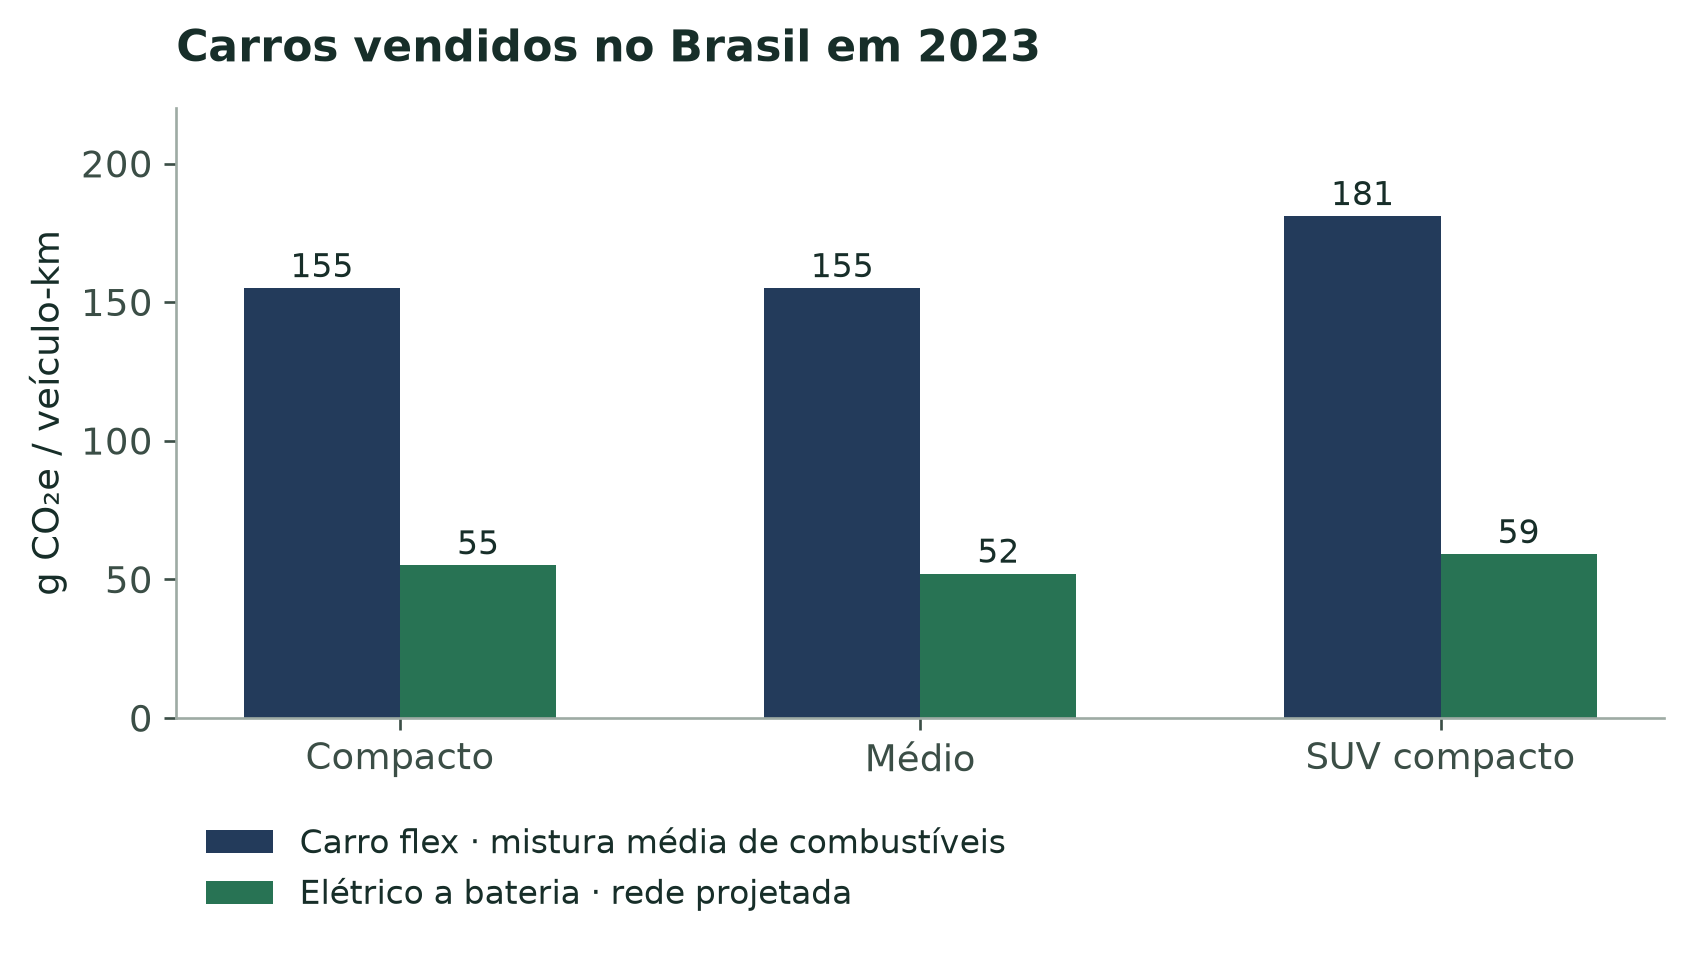
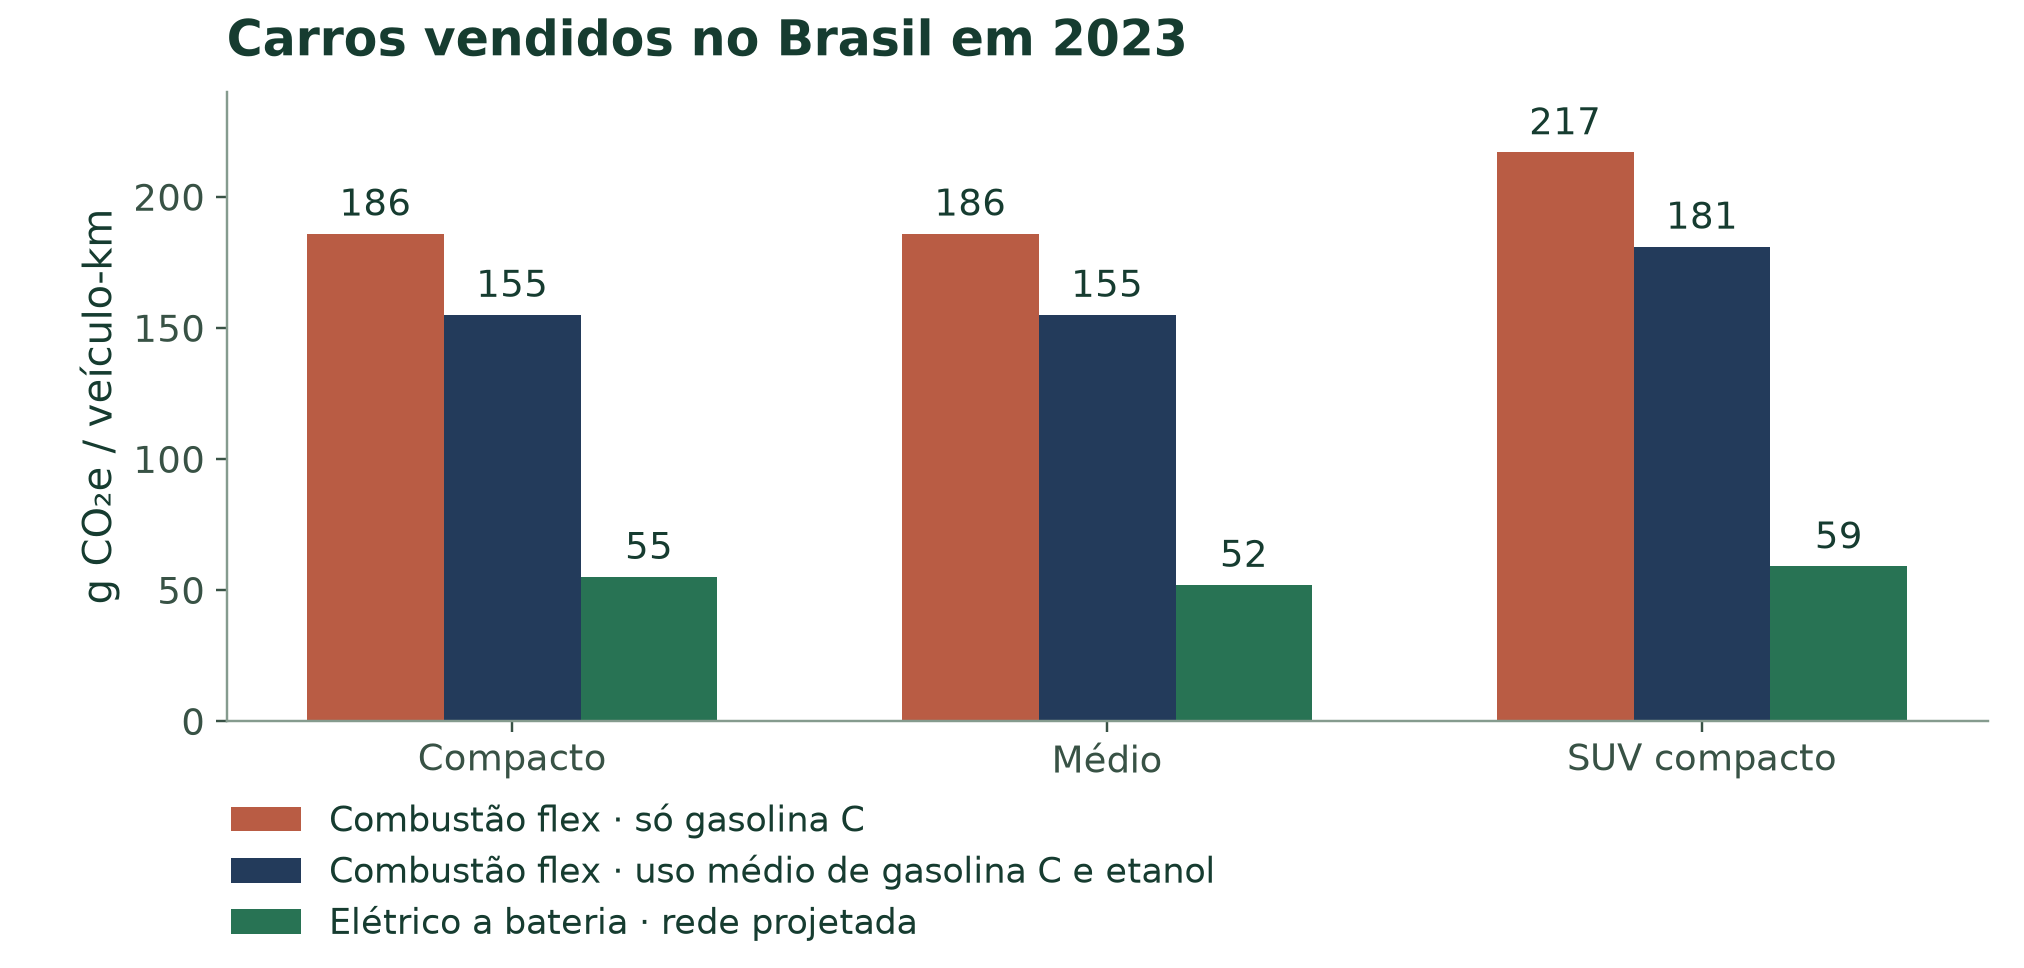
Compare gasoline C flex cars with average fuel mix and EVs on slide 8

Changed region(s): [[0.0, 0.0912, 0.9829, 0.9727], [0.0921, 0.0, 0.6143, 0.0608], [0.0307, 0.152, 0.1229, 0.2432]]

diff --git a/index.html b/index.html
@@ -75,13 +75,15 @@ R01 — Material fornecido da disciplina Sustainable Future, Aula 10, p. 15.</as
 
 FONTES
 R01 — Material fornecido da disciplina Sustainable Future · PDFs indexados no arquivo da aula. As páginas citadas são páginas do PDF, sem equivaler necessariamente à numeração interna dos slides. </aside></section>
-<section class="visual-slide " data-title="Carros elétricos no ciclo de vida" aria-label="8. Carros elétricos no ciclo de vida"><h1>Carros elétricos no ciclo de vida</h1><img class="chart-visual brazil-chart" src="assets/pt/brazil_ev.png" alt="ICCT Brasil, carros vendidos em 2023: flex e elétrico a bateria. Compacto 155 e 55; médio 155 e 52; SUV compacto 181 e 59 g CO₂e por veículo-km"><p class="source-line">ICCT Brasil, 2023 · modelo de vida útil: 22 anos e 288.000 km</p><aside class="notes">20–23 min. Compare veículos da mesma categoria. ICCT Brasil 2023: compacto flex com mistura média de combustíveis 155 frente a elétrico 55; médio 155 frente a 52; SUV compacto 181 frente a 59 g CO₂e/veículo-km. Reduções modeladas de cerca de 65–67%, incluindo fabricação, energia, manutenção e reciclagem com hipóteses do estudo, vida de 22 anos e 288.000 km. As misturas de combustíveis e eletricidade são projetadas para 2023–2044; não são medições de todos os carros atuais. Porte maior pode elevar demanda de materiais e energia.
+<section class="visual-slide " data-title="Carros elétricos no ciclo de vida" aria-label="8. Carros elétricos no ciclo de vida"><h1>Carros elétricos no ciclo de vida</h1><img class="chart-visual brazil-chart" src="assets/pt/brazil_ev.png?v=20261109-gasolina" alt="ICCT Brasil, carros de 2023. Flex só com gasolina C, flex com uso médio de gasolina e etanol, e elétrico. Compacto: 186, 155 e 55. Médio: 186, 155 e 52. SUV compacto: 217, 181 e 59 gramas de CO₂e por veículo-quilômetro."><p class="source-line">ICCT Brasil, 2023 · modelo de vida útil: 22 anos e 288.000 km</p><aside class="notes">20–23 min. Compare veículos da mesma categoria. O ICCT Brasil 2023 estimou, em g CO₂e por veículo-km, os seguintes valores para flex só a gasolina C, flex com uso médio de gasolina C e etanol hidratado, e elétrico a bateria, nessa ordem. Compacto 186, 155 e 55. Médio 186, 155 e 52. SUV compacto 217, 181 e 59. Os dois cenários de combustão usam o mesmo veículo flex, com abastecimentos diferentes. Gasolina C é a gasolina comercial com etanol anidro na formulação.
 
-Referência alternativa separada: ICCT UE 2025 para médios, 235 g/km gasolina mais biocombustíveis, 63 elétrico com rede projetada, 52 com eletricidade renovável. Esses são cenários europeus, não fatores da enquete brasileira. Não dê distância universal de compensação da bateria nem afirme que o elétrico sempre vence qualquer ônibus ou bicicleta.
+As barras distribuem as emissões modeladas por 288.000 km em 22 anos. Entram a extração de matérias-primas, a fabricação, a manutenção, a produção e o uso de combustível ou eletricidade, e a reciclagem do chassi e do conjunto de propulsão. Para a bateria, entra a produção, com crédito zero para reciclagem ou segunda vida. Os cenários de combustíveis e eletricidade seguem as projeções do estudo para 2023–2044.
+
+Referência alternativa separada. ICCT UE 2025 estima, para carros médios, 235 g/km no cenário gasolina mais biocombustíveis, 63 no elétrico com a rede projetada e 52 no elétrico com eletricidade renovável.
 
 FONTES
-R10 — Mera e colaboradores ICCT 2023 carros no Brasil · Figuras 5–7, páginas impressas 15–17. Vida útil de 22 anos e 288.000 km; energia projetada para 2023–2044. https://theicct.org/wp-content/uploads/2023/10/Brazil-LDV-LCA-report-A4-v7.pdf
-R09 — ICCT 2025 ciclo de vida dos carros na União Europeia · Comparação de carros médios vendidos em 2025, com eletricidade ao longo de 2025–2044. https://theicct.org/wp-content/uploads/2025/07/ID-392-%E2%80%93-Life-cycle-GHG_report_final.pdf</aside></section>
+R10 — ICCT Brasil (2023), figuras 5–7, discussão dos veículos de 2023 e escopo da ACV. https://theicct.org/wp-content/uploads/2023/10/Brazil-LDV-LCA-report-A4-PORT-v4.pdf
+R09 — ICCT União Europeia (2025), avaliação de ciclo de vida. https://theicct.org/publication/electric-cars-life-cycle-analysis-emissions-europe-jul25/</aside></section>
 <section class="visual-slide " data-title="Quanto pesa a energia?" aria-label="9. Quanto pesa a energia?"><h1>Quanto pesa a energia?</h1><img class="photo half-photo" src="assets/pt/plane.webp" alt="Aeronave comercial"><div class="energy-numbers"><div><strong>43,2</strong><span>MJ/kg · Jet A</span></div><div><strong>0,9</strong><span>MJ/kg · bateria a 250 Wh/kg</span></div><p>Energia armazenada ≠ autonomia</p></div><aside class="notes">23–26 min. Converta com a turma: 250 Wh/kg × 3,6 kJ/Wh = 900 kJ/kg = 0,9 MJ/kg. Jet A tem poder calorífico inferior de 43,2 MJ/kg: razão armazenada de 48. A bateria é uma hipótese de conjunto a 250 Wh/kg, não um recorde de célula. Isso não significa 48 vezes a autonomia. Como sensibilidade hipotética, 35% de conversão útil para combustível e 90% para elétrico dão 15,12 contra 0,81 MJ/kg, razão 18,7; não representam uma aeronave específica. Reservas, refrigeração, aerodinâmica, massa do conjunto e queima de combustível entram no projeto. Aviões curtos e algumas rotas marítimas podem usar baterias; longo alcance impõe outras restrições.
 
 FONTES

diff --git a/CREDITS.md b/CREDITS.md
@@ -73,13 +73,15 @@ R01 — Material fornecido da disciplina Sustainable Future · PDFs indexados no
 
 ## 8 Carros elétricos no ciclo de vida
 
-20–23 min. Compare veículos da mesma categoria. ICCT Brasil 2023: compacto flex com mistura média de combustíveis 155 frente a elétrico 55; médio 155 frente a 52; SUV compacto 181 frente a 59 g CO₂e/veículo-km. Reduções modeladas de cerca de 65–67%, incluindo fabricação, energia, manutenção e reciclagem com hipóteses do estudo, vida de 22 anos e 288.000 km. As misturas de combustíveis e eletricidade são projetadas para 2023–2044; não são medições de todos os carros atuais. Porte maior pode elevar demanda de materiais e energia.
+20–23 min. Compare veículos da mesma categoria. O ICCT Brasil 2023 estimou, em g CO₂e por veículo-km, os seguintes valores para flex só a gasolina C, flex com uso médio de gasolina C e etanol hidratado, e elétrico a bateria, nessa ordem. Compacto 186, 155 e 55. Médio 186, 155 e 52. SUV compacto 217, 181 e 59. Os dois cenários de combustão usam o mesmo veículo flex, com abastecimentos diferentes. Gasolina C é a gasolina comercial com etanol anidro na formulação.
 
-Referência alternativa separada: ICCT UE 2025 para médios, 235 g/km gasolina mais biocombustíveis, 63 elétrico com rede projetada, 52 com eletricidade renovável. Esses são cenários europeus, não fatores da enquete brasileira. Não dê distância universal de compensação da bateria nem afirme que o elétrico sempre vence qualquer ônibus ou bicicleta.
+As barras distribuem as emissões modeladas por 288.000 km em 22 anos. Entram a extração de matérias-primas, a fabricação, a manutenção, a produção e o uso de combustível ou eletricidade, e a reciclagem do chassi e do conjunto de propulsão. Para a bateria, entra a produção, com crédito zero para reciclagem ou segunda vida. Os cenários de combustíveis e eletricidade seguem as projeções do estudo para 2023–2044.
+
+Referência alternativa separada. ICCT UE 2025 estima, para carros médios, 235 g/km no cenário gasolina mais biocombustíveis, 63 no elétrico com a rede projetada e 52 no elétrico com eletricidade renovável.
 
 FONTES
-R10 — Mera e colaboradores ICCT 2023 carros no Brasil · Figuras 5–7, páginas impressas 15–17. Vida útil de 22 anos e 288.000 km; energia projetada para 2023–2044. https://theicct.org/wp-content/uploads/2023/10/Brazil-LDV-LCA-report-A4-v7.pdf
-R09 — ICCT 2025 ciclo de vida dos carros na União Europeia · Comparação de carros médios vendidos em 2025, com eletricidade ao longo de 2025–2044. https://theicct.org/wp-content/uploads/2025/07/ID-392-%E2%80%93-Life-cycle-GHG_report_final.pdf
+R10 — ICCT Brasil (2023), figuras 5–7, discussão dos veículos de 2023 e escopo da ACV. https://theicct.org/wp-content/uploads/2023/10/Brazil-LDV-LCA-report-A4-PORT-v4.pdf
+R09 — ICCT União Europeia (2025), avaliação de ciclo de vida. https://theicct.org/publication/electric-cars-life-cycle-analysis-emissions-europe-jul25/
 
 ## 9 Quanto pesa a energia?
 
